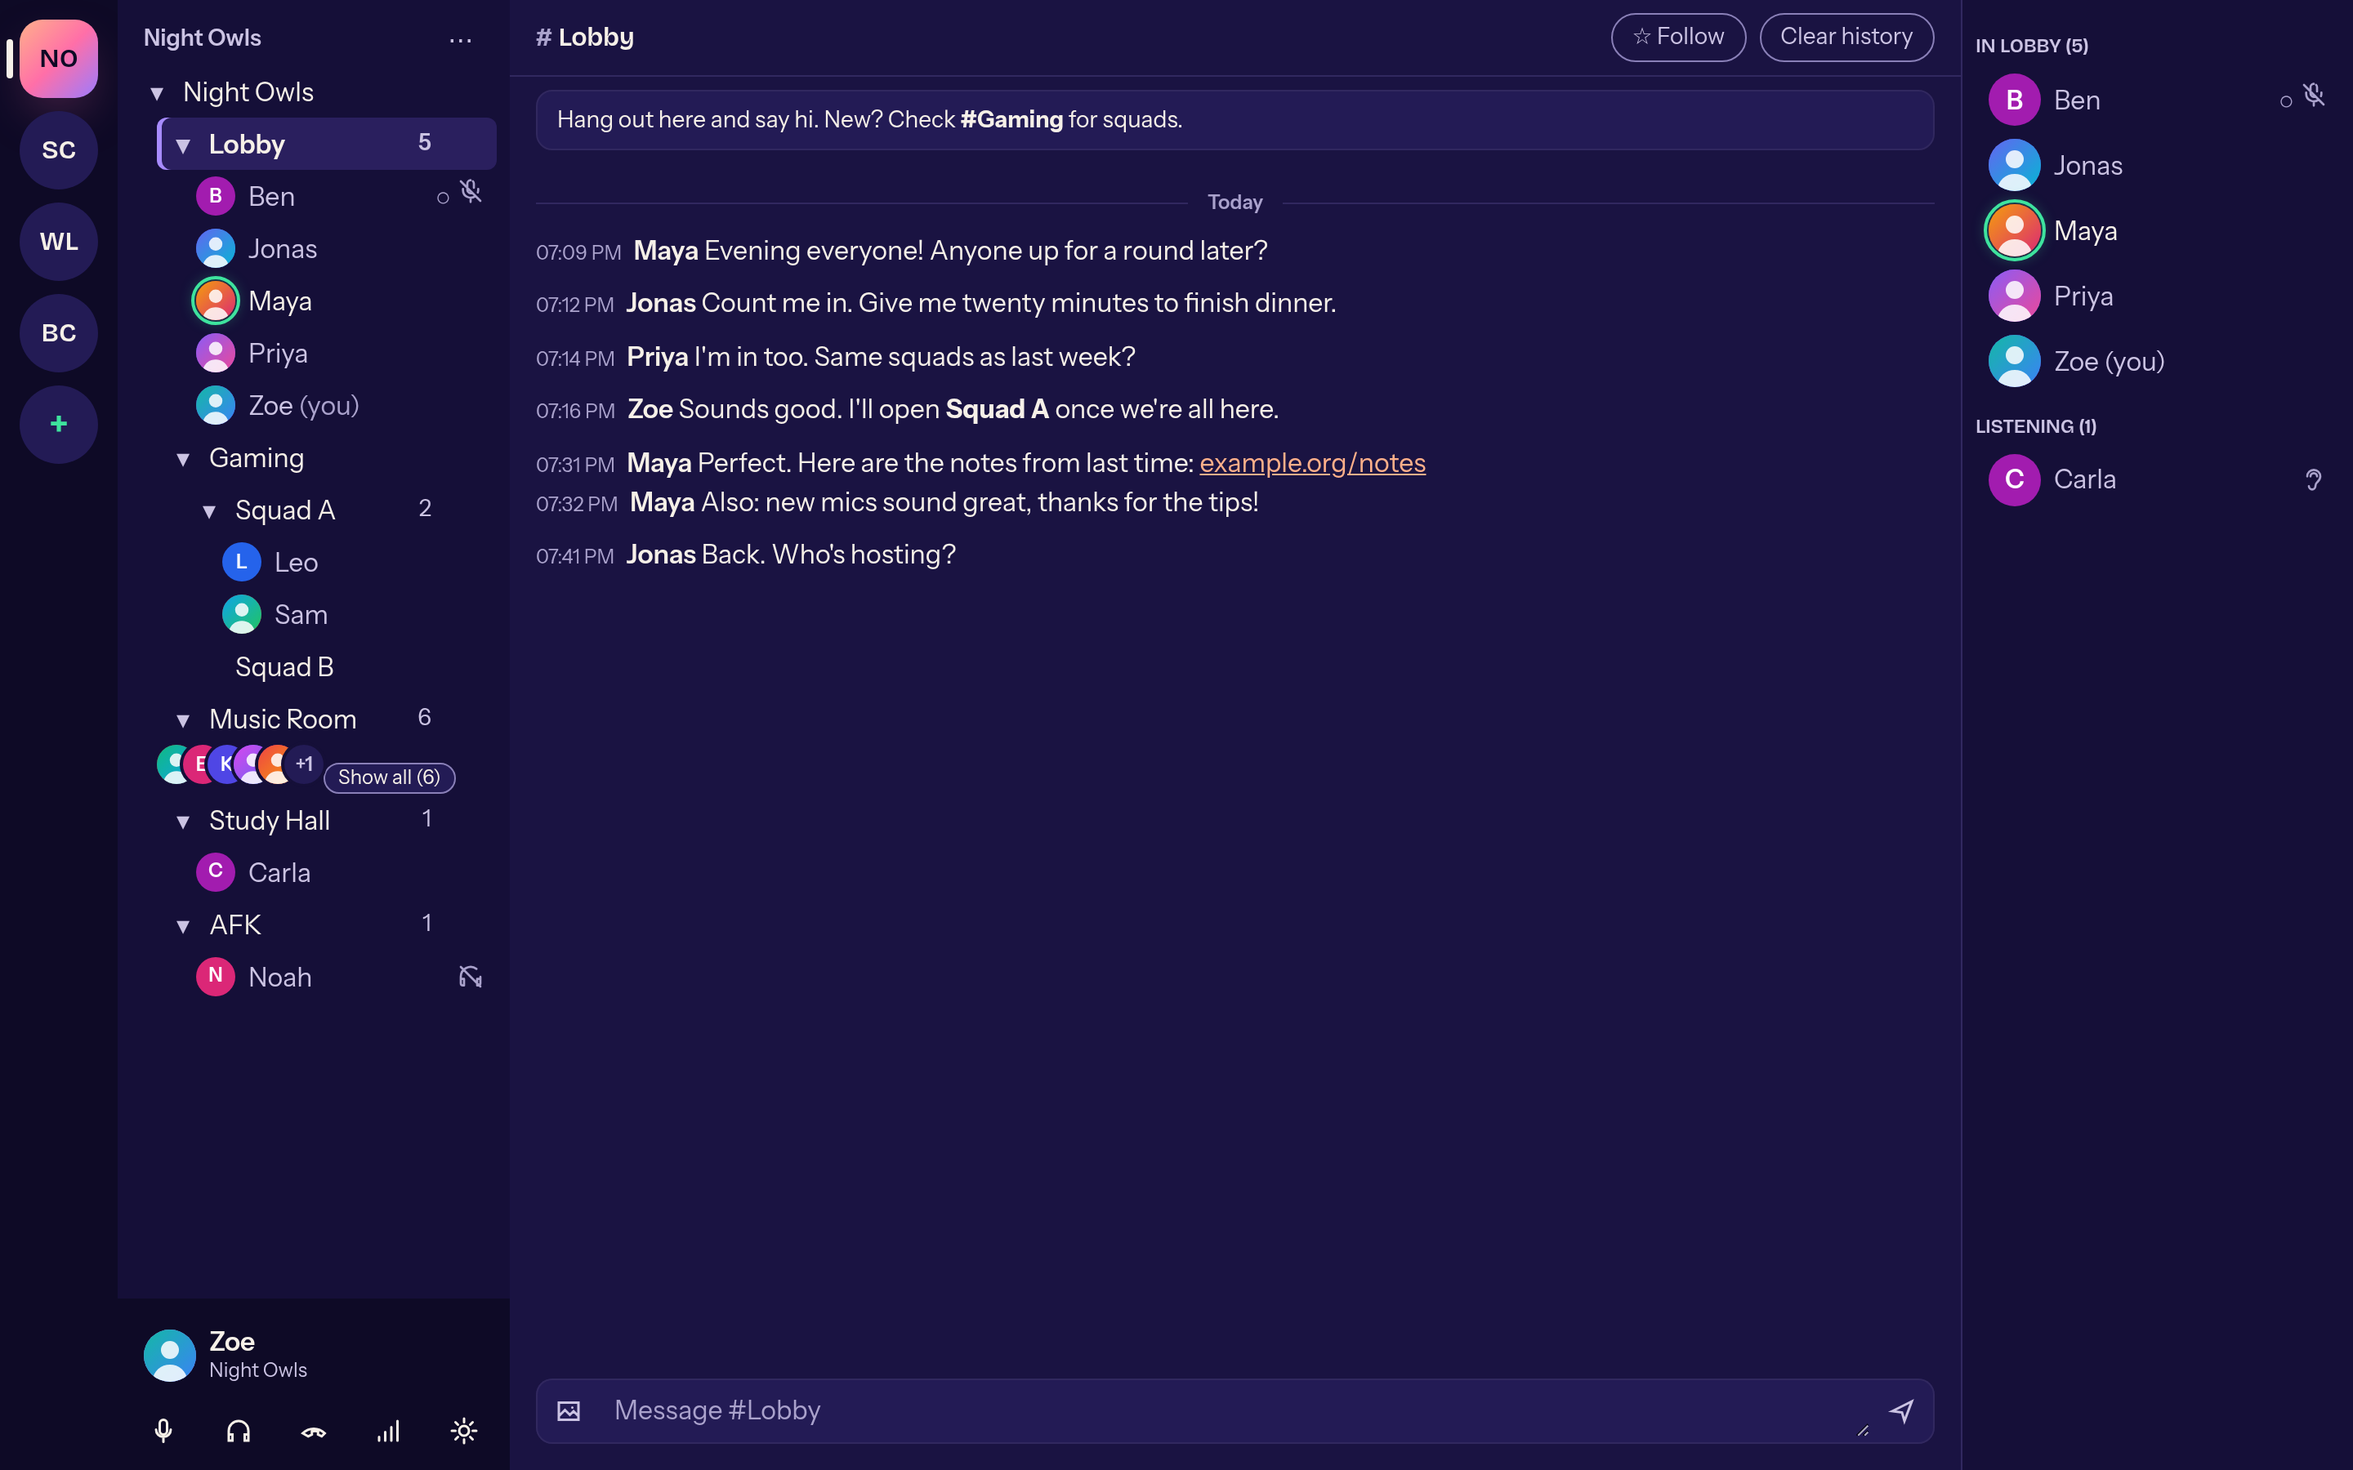
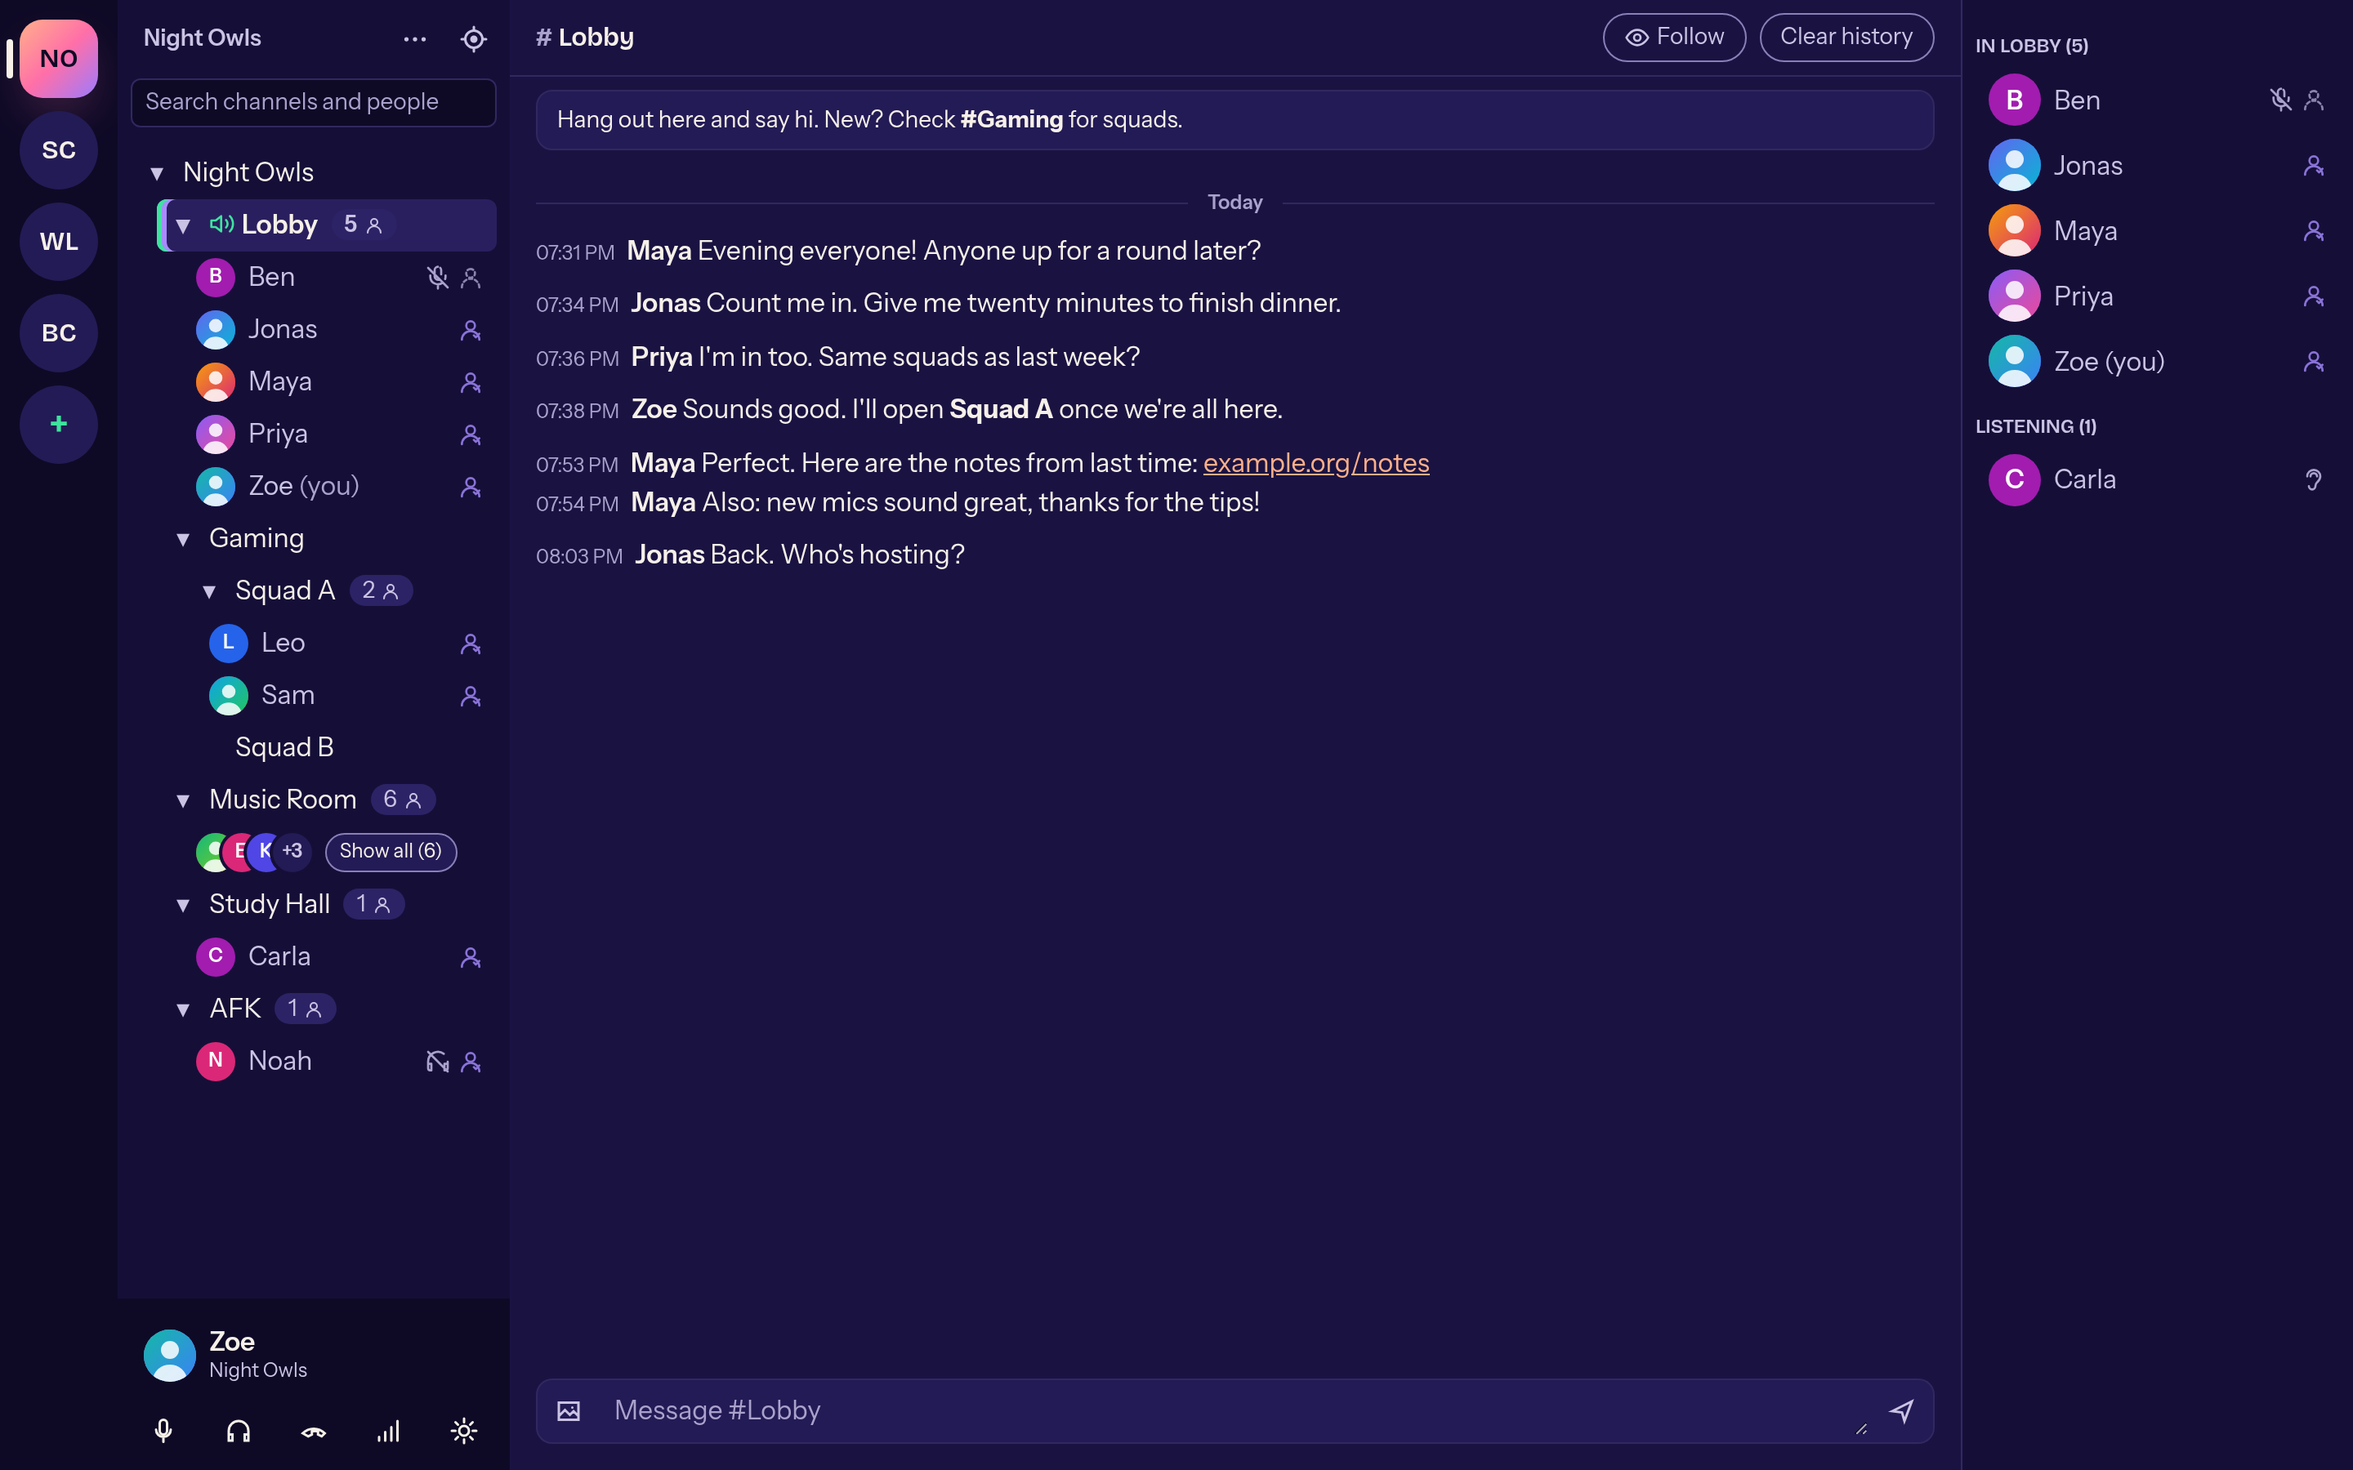
feat: fresh screenshots and texts for search, context menu and the follow eye

diff --git a/src/i18n/de.ts b/src/i18n/de.ts
@@ -12,6 +12,7 @@ export const de = {
     roadmap: "Roadmap",
     download: "Download",
     docs: "Doku",
+    changelog: "Changelog",
     skip: "Zum Inhalt springen",
     langSwitch: "English",
     menu: "Menü",
@@ -61,7 +62,7 @@ export const de = {
         id: "follow",
         title: "Kanälen folgen",
         body:
-          "Ein Klick auf den Stern, und du liest einen Kanal mit, ohne beizutreten — oder folgst über das Server-Menü gleich allen. Ungelesenes steht als Badge dran.",
+          "Ein Klick aufs Auge, und du liest einen Kanal mit, ohne beizutreten — oder folgst über das Server-Menü gleich allen. Ungelesenes steht als Zähler dran, auch im eigenen Kanal.",
       },
       {
         id: "audio",
@@ -91,13 +92,13 @@ export const de = {
         id: "crowd",
         title: "Auch große Server bleiben übersichtlich",
         body:
-          "Ab sechs Leuten stapeln sich die Avatare unter dem Kanalnamen. Profilvorschau beim Drüberfahren, Kanal- und Mitgliederliste lassen sich in der Breite ziehen.",
+          "Suche mit Strg+K, ein Sprung zu deinem Kanal, gestapelte Avatare ab sechs Leuten. Getestet mit 1000 Personen in 305 Kanälen — flüssig bei 60 fps.",
       },
       {
         id: "people",
-        title: "Lautstärke pro Person",
+        title: "Rechtsklick auf Leute",
         body:
-          "0 bis 200 %, lokal stummschalten. Gemerkt am Zertifikat der Person — auch nach einer Umbenennung.",
+          "Profil, für mich stummschalten, Lautstärke von 0 bis 200 %, private Nachricht. Gemerkt am Zertifikat der Person — auch nach einer Umbenennung. Profilvorschau schon beim Drüberfahren.",
       },
       {
         id: "reconnect",
@@ -161,10 +162,12 @@ export const de = {
     items: [
       { src: "wizard-1-identity", caption: "Einrichtung in etwa einer Minute: Identität, Mikrofon, Sprechmodus." },
       { src: "wizard-3-talk-mode", caption: "Sprachaktivierung oder Push-to-Talk, mumble://-Links und Autostart." },
-      { src: "follow-unread-badge", caption: "Kanälen per Stern folgen, Ungelesenes als Badge." },
+      { src: "follow-unread-badge", caption: "Kanälen per Auge folgen, Ungelesenes als Zähler." },
       { src: "notification-toast", caption: "Ein kleines Pop-up meldet neue Nachrichten aus anderen Kanälen." },
       { src: "chat-compact", caption: "Kompaktes Chat-Layout: Zeit, Name und Nachricht in einer Zeile." },
       { src: "channel-avatar-stack", caption: "Volle Kanäle zeigen einen Avatar-Stapel statt einer langen Liste." },
+      { src: "context-menu", caption: "Rechtsklick: stummschalten, Lautstärke, private Nachricht." },
+      { src: "search", caption: "Strg+K durchsucht Kanäle und Leute." },
       { src: "banner-rejoin", caption: "Nach dem Neustart zurück in den letzten Sprachkanal." },
       { src: "dialog-certificate-trust", caption: "Vertrauen beim ersten Kontakt, mit Fingerabdruck." },
       { src: "settings-07-sounds-notifications-dark", caption: "Töne und Benachrichtigungen, pro Ereignis einstellbar." },
@@ -180,7 +183,7 @@ export const de = {
     now: "jetzt",
     steps: [
       { tag: "Epic 1 · 1a", title: "Alltags-Client", body: "Alles auf dieser Seite. Unsignierte Builds für Linux, Windows und macOS.", now: true },
-      { tag: "Epic 1 · 1b", title: "Positional Audio & Overlay", body: "Mumble Link mit den offiziellen Spiel-Plugins, schwebendes Overlay." },
+      { tag: "Epic 1 · 1b", title: "Positional Audio & Overlay", body: "Mumble Link mit den offiziellen Spiel-Plugins, schwebendes Overlay. Dazu Link-Vorschauen, @Erwähnungen, GIFs und Code-Hervorhebung im Chat." },
       { tag: "Epic 2", title: "Mehrere Server gleichzeitig", body: "Auf allen Servern mitlesen, auf einem sprechen." },
       { tag: "Epic 3", title: "Komfort", body: "Globale Hotkeys, volles Tray-Menü, Import aus dem offiziellen Client, Flüstern, Server-Browser." },
       { tag: "Epic 4", title: "Admin", body: "ACLs, Banns, Kanalverwaltung." },
@@ -193,7 +196,7 @@ export const de = {
     latest: "Neueste Version",
     prerelease: "Vorabversion",
     published: "veröffentlicht am",
-    notes: "Release-Notes",
+    notes: "Was ist neu",
     allReleases: "Alle Releases",
     checksums: "SHA256SUMS prüfen",
     noRelease:
@@ -209,6 +212,19 @@ export const de = {
     source: "Lieber selbst bauen? Rust, Node 24, ein Befehl.",
     sourceLink: "Bauanleitung im Wiki",
   },
+  changelog: {
+    title: "Changelog",
+    description: "Was sich in jeder Mumcord-Version geändert hat — von der ersten Alpha an.",
+    label: "Versionen",
+    intro: "Was sich in jeder Version für dich ändert. Die technischen Details stehen in den Releases auf GitHub.",
+    released: "veröffentlicht am",
+    upcoming: "in Vorbereitung",
+    upcomingNote: "Diese Version ist noch nicht veröffentlicht. Sobald das Release auf GitHub erscheint, steht hier der Download.",
+    download: "Herunterladen",
+    onGithub: "Release auf GitHub",
+    known: "Bekannte Einschränkungen",
+    githubOnly: "Für diese Version gibt es nur die Release-Notes auf GitHub.",
+  },
   footer: {
     tagline: "Moderner Voice-Chat für Mumble-Server.",
     disclaimer:
@@ -219,6 +235,7 @@ export const de = {
     wiki: "Wiki",
     issues: "Fehler melden",
     releases: "Releases",
+    changelog: "Changelog",
     license: "MIT-Lizenz",
     imprint: "Impressum",
     privacy: "Datenschutz",

diff --git a/src/i18n/en.ts b/src/i18n/en.ts
@@ -14,6 +14,7 @@ export const en: Dict = {
     roadmap: "Roadmap",
     download: "Download",
     docs: "Docs",
+    changelog: "Changelog",
     skip: "Skip to content",
     langSwitch: "Deutsch",
     menu: "Menu",
@@ -62,7 +63,7 @@ export const en: Dict = {
         id: "follow",
         title: "Follow channels",
         body:
-          "Click the star and you read along in a channel without joining it — or follow all of them from the server menu. Unread messages show up as a badge.",
+          "Click the eye and you read along in a channel without joining it — or follow all of them from the server menu. Unread messages show up as a count, in your own channel too.",
       },
       {
         id: "audio",
@@ -92,13 +93,13 @@ export const en: Dict = {
         id: "crowd",
         title: "Big servers stay tidy",
         body:
-          "From six people on, avatars stack up under the channel name. Hover for a profile preview, and drag the channel and member lists to the width you like.",
+          "Search with Ctrl+K, jump to your channel, stacked avatars from six people on. Tested with 1000 people in 305 channels — smooth at 60 fps.",
       },
       {
         id: "people",
-        title: "Volume per person",
+        title: "Right-click people",
         body:
-          "0 to 200 %, local mute. Remembered by the person's certificate — even after they rename.",
+          "Profile, mute for me, volume from 0 to 200 %, private message. Remembered by the person's certificate — even after they rename. A profile preview shows on hover.",
       },
       {
         id: "reconnect",
@@ -162,10 +163,12 @@ export const en: Dict = {
     items: [
       { src: "wizard-1-identity", caption: "Set up in about a minute: identity, microphone, talk mode." },
       { src: "wizard-3-talk-mode", caption: "Voice activation or push-to-talk, mumble:// links and start at login." },
-      { src: "follow-unread-badge", caption: "Follow channels with a star, unread messages as a badge." },
+      { src: "follow-unread-badge", caption: "Follow channels with the eye, unread messages as a count." },
       { src: "notification-toast", caption: "A small pop-up announces new messages from other channels." },
       { src: "chat-compact", caption: "Compact chat layout: time, name and message on one line." },
       { src: "channel-avatar-stack", caption: "Crowded channels show a stack of avatars instead of a long list." },
+      { src: "context-menu", caption: "Right-click: mute, volume, private message." },
+      { src: "search", caption: "Ctrl+K searches channels and people." },
       { src: "banner-rejoin", caption: "After a restart, back into your last voice channel." },
       { src: "dialog-certificate-trust", caption: "Trust on first contact, with the fingerprint." },
       { src: "settings-07-sounds-notifications-dark", caption: "Sounds and notifications, set per event." },
@@ -181,7 +184,7 @@ export const en: Dict = {
     now: "now",
     steps: [
       { tag: "Epic 1 · 1a", title: "Everyday client", body: "Everything on this page. Unsigned builds for Linux, Windows and macOS.", now: true },
-      { tag: "Epic 1 · 1b", title: "Positional audio & overlay", body: "Mumble Link with the official game plugins, floating overlay." },
+      { tag: "Epic 1 · 1b", title: "Positional audio & overlay", body: "Mumble Link with the official game plugins, floating overlay. Plus link previews, @mentions, GIFs and code highlighting in chat." },
       { tag: "Epic 2", title: "Several servers at once", body: "Read along on all of them, talk on one." },
       { tag: "Epic 3", title: "Comfort", body: "Global hotkeys, full tray menu, import from the official client, whisper, server browser." },
       { tag: "Epic 4", title: "Admin", body: "ACLs, bans, channel management." },
@@ -194,7 +197,7 @@ export const en: Dict = {
     latest: "Latest version",
     prerelease: "Pre-release",
     published: "published on",
-    notes: "Release notes",
+    notes: "What's new",
     allReleases: "All releases",
     checksums: "Verify SHA256SUMS",
     noRelease:
@@ -210,6 +213,19 @@ export const en: Dict = {
     source: "Rather build it yourself? Rust, Node 24, one command.",
     sourceLink: "Build guide in the wiki",
   },
+  changelog: {
+    title: "Changelog",
+    description: "What changed in each Mumcord version — from the first alpha on.",
+    label: "Versions",
+    intro: "What changes for you in each version. The technical details are in the releases on GitHub.",
+    released: "released",
+    upcoming: "coming up",
+    upcomingNote: "This version isn't published yet. Once the release appears on GitHub, the download shows up here.",
+    download: "Download",
+    onGithub: "Release on GitHub",
+    known: "Known limitations",
+    githubOnly: "For this version there are only the release notes on GitHub.",
+  },
   footer: {
     tagline: "Modern voice chat for Mumble servers.",
     disclaimer:
@@ -220,6 +236,7 @@ export const en: Dict = {
     wiki: "Wiki",
     issues: "Report a bug",
     releases: "Releases",
+    changelog: "Changelog",
     license: "MIT License",
     imprint: "Legal notice",
     privacy: "Privacy",

diff --git a/src/styles/global.css b/src/styles/global.css
@@ -641,8 +641,8 @@ a.lang-opt:hover {
 }
 .speaker-tag {
   position: absolute;
-  left: 13%;
-  top: 13.4%;
+  left: 14.2%;
+  top: 19.6%;
   display: inline-flex;
   align-items: center;
   gap: 8px;
@@ -941,9 +941,9 @@ a.lang-opt:hover {
   color: var(--text);
   font-weight: 600;
 }
-.star {
+.eye {
   color: var(--peach);
-  font-size: 0.8rem;
+  flex: none;
 }
 .badge {
   margin-left: auto;
@@ -1496,6 +1496,11 @@ a.lang-opt:hover {
 .release-none p + p {
   margin-top: 12px;
 }
+.release-none p:last-child {
+  display: flex;
+  flex-wrap: wrap;
+  gap: 8px 24px;
+}
 .pill {
   padding: 2px 10px;
   border-radius: 999px;
@@ -1728,6 +1733,104 @@ a.lang-opt:hover {
   font-family: var(--font-mono);
   font-size: 0.78rem;
   color: var(--faint);
+}
+
+/* ── Changelog ───────────────────────────────────────── */
+.changelog {
+  padding-block: clamp(56px, 9vw, 120px);
+}
+.changelog-head .body {
+  max-width: 60ch;
+}
+.cl-list {
+  list-style: none;
+  padding: 0;
+  margin: clamp(48px, 7vw, 88px) 0 0;
+}
+.cl-entry {
+  display: grid;
+  gap: 20px 48px;
+  padding-block: 40px;
+  border-top: 1px solid var(--line);
+  scroll-margin-top: 96px;
+}
+@media (min-width: 860px) {
+  .cl-entry {
+    grid-template-columns: 220px 1fr;
+  }
+  .cl-side {
+    position: sticky;
+    top: 104px;
+    align-self: start;
+  }
+}
+.cl-version {
+  font-family: var(--font-display);
+  font-size: clamp(2.4rem, 5vw, 3.4rem);
+  font-weight: 800;
+  letter-spacing: -0.04em;
+  line-height: 1;
+  color: var(--peach);
+  text-decoration: none;
+}
+.cl-date {
+  margin-top: 12px;
+  font-family: var(--font-mono);
+  font-size: 0.8rem;
+  color: var(--faint);
+}
+.cl-main {
+  max-width: 72ch;
+}
+.cl-summary {
+  font-size: 1.2rem;
+  line-height: 1.55;
+}
+.cl-group h2 {
+  margin: 36px 0 12px;
+  font-size: 0.78rem;
+  font-family: var(--font-mono);
+  font-weight: 500;
+  letter-spacing: 0.08em;
+  text-transform: uppercase;
+  color: var(--lilac);
+}
+.cl-group ul {
+  list-style: none;
+  padding: 0;
+  margin: 0;
+}
+.cl-group li {
+  position: relative;
+  padding: 10px 0 10px 22px;
+  color: var(--muted);
+  border-bottom: 1px dashed var(--line);
+}
+.cl-group li::before {
+  content: "";
+  position: absolute;
+  left: 2px;
+  top: 1.05em;
+  width: 7px;
+  height: 7px;
+  border-radius: 50%;
+  background: var(--live);
+}
+.cl-known li::before {
+  background: none;
+  border: 1.5px solid var(--faint);
+}
+.cl-links {
+  display: flex;
+  flex-wrap: wrap;
+  align-items: center;
+  gap: 12px 24px;
+  margin-top: 36px;
+}
+.cl-note {
+  flex-basis: 100%;
+  color: var(--faint);
+  font-size: 0.9375rem;
 }
 
 /* ── 404 ─────────────────────────────────────────────── */
